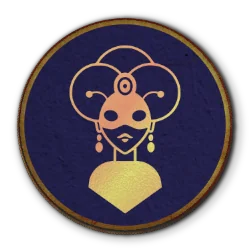
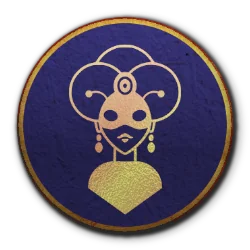
Release v0.0.124

Changed region(s): [[0.056, 0.056, 0.98, 0.98]]

diff --git a/styles/ouw25.css b/styles/ouw25.css
@@ -277,10 +277,16 @@ body.game .application.ouw25 .ouw25-notes .ouw25-condition-check input:focus-vis
 
 .ouw25 .ouw25-token-heading .ouw25-actor-token {
   position: absolute;
-  inset-block-start: -18px;
-  inset-inline-start: -18px;
+  inset-block-start: -16px;
+  inset-inline-start: -16px;
   inline-size: 100px;
   block-size: 100px;
+  transform: rotate(-2deg);
+}
+
+.ouw25 .ouw25-merchant-heading .ouw25-actor-token {
+  inset-block-start: -14px;
+  inset-inline-start: -14px;
 }
 
 body.game .application.ouw25 .ouw25-notes button.ouw25-actor-token:not(:disabled),
@@ -301,6 +307,16 @@ body.game .application.ouw25 .ouw25-notes button.ouw25-actor-token:hover:not(:di
   block-size: 100%;
   border: 0;
   object-fit: contain;
+}
+
+@media (prefers-reduced-motion: no-preference) {
+  body.game .application.ouw25 .ouw25-notes .ouw25-token-heading .ouw25-actor-token {
+    transition: transform 160ms ease;
+  }
+
+  body.game .application.ouw25 .ouw25-notes .ouw25-token-heading .ouw25-actor-token:hover {
+    transform: rotate(0deg) scale(1.035);
+  }
 }
 
 .ouw25 .ouw25-notes .ouw25-save-status {
